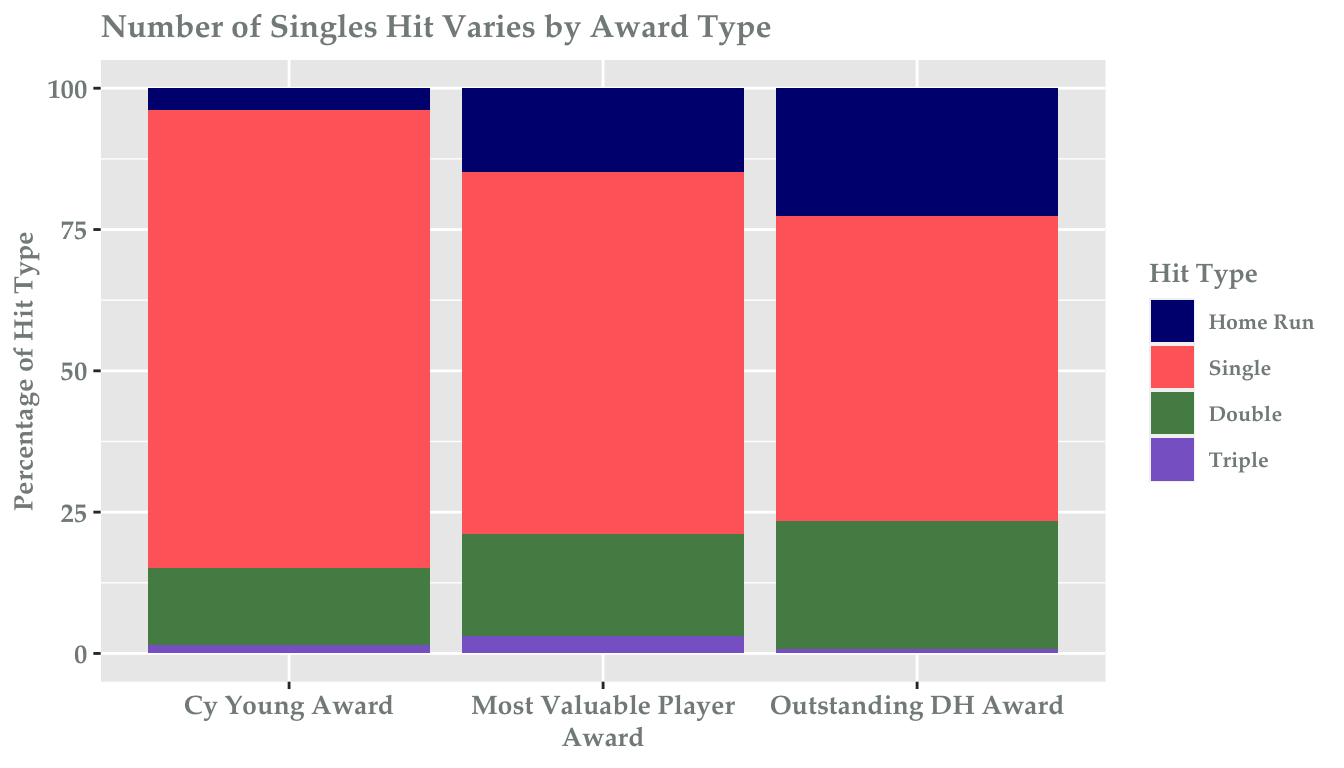
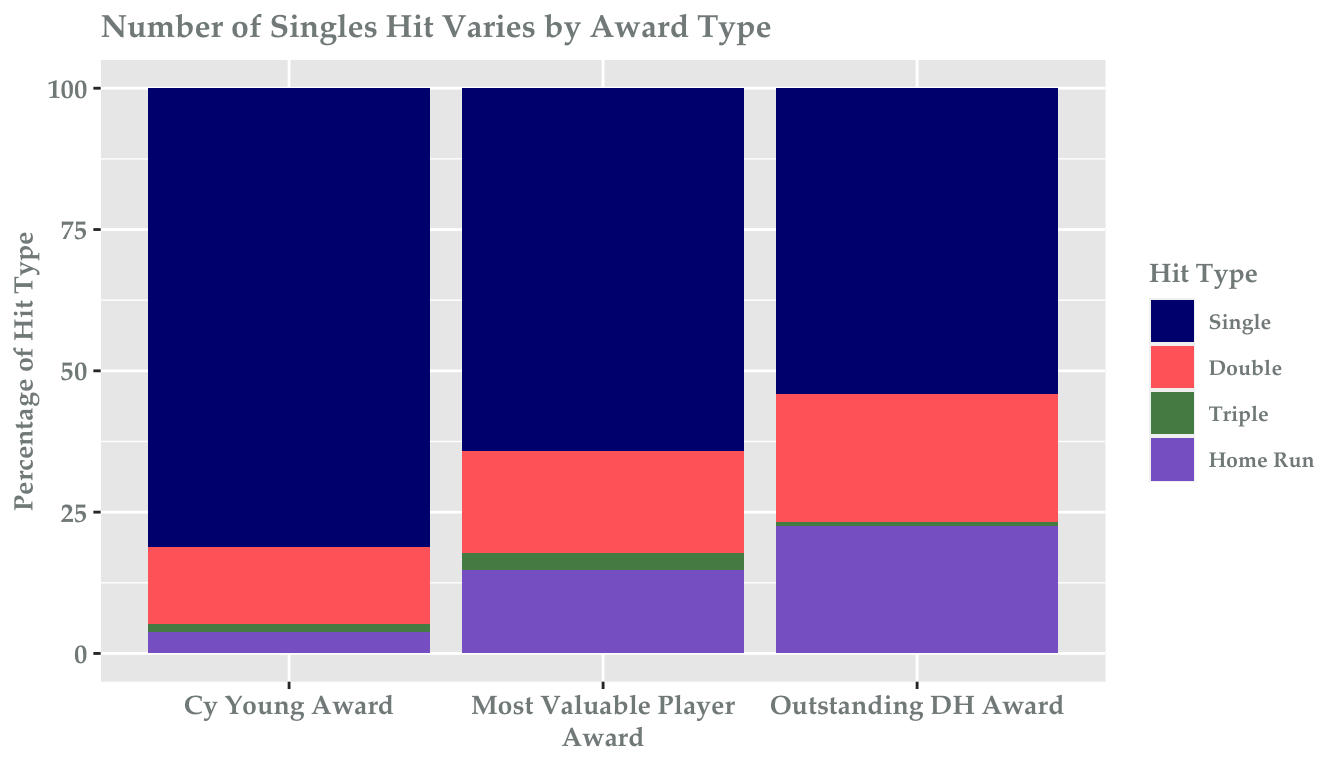
reorder factor levels

diff --git a/Poster/Poster.html b/Poster/Poster.html
@@ -311,7 +311,7 @@ Exploring the Lahman’s Baseball Database</div></h1>
 <div id="exploring-hrs-per-ab" class="section level1">
 <h1>Exploring HRs per AB</h1>
 <p><img src="Poster_files/figure-html/unnamed-chunk-2-1.png" width="100%" style="display: block; margin: auto;" /></p>
-<p>HR/AB by year has a two peaked distribution, with the first at around 0.05 representing the high concentration of low HR/AB numbers in the early years and the second at around 0.025 representing a concentration of higher HR/AB seasons. There is a decent right skew representing the rapid increase in HR/AB in recent years.</p>
+<p>The distribution of HR/AB by year has a two peaked distribution, with the first at around 0.05 representing the high concentration of low HR/AB numbers in the early years and the second at around 0.025 representing a concentration of higher HR/AB seasons. There is a decent right skew representing the rapid increase in HR/AB in recent years.</p>
 </div>
 <div id="what-influences-number-of-home-runs-hit" class="section level1">
 <h1>What influences number of home runs hit?</h1>
